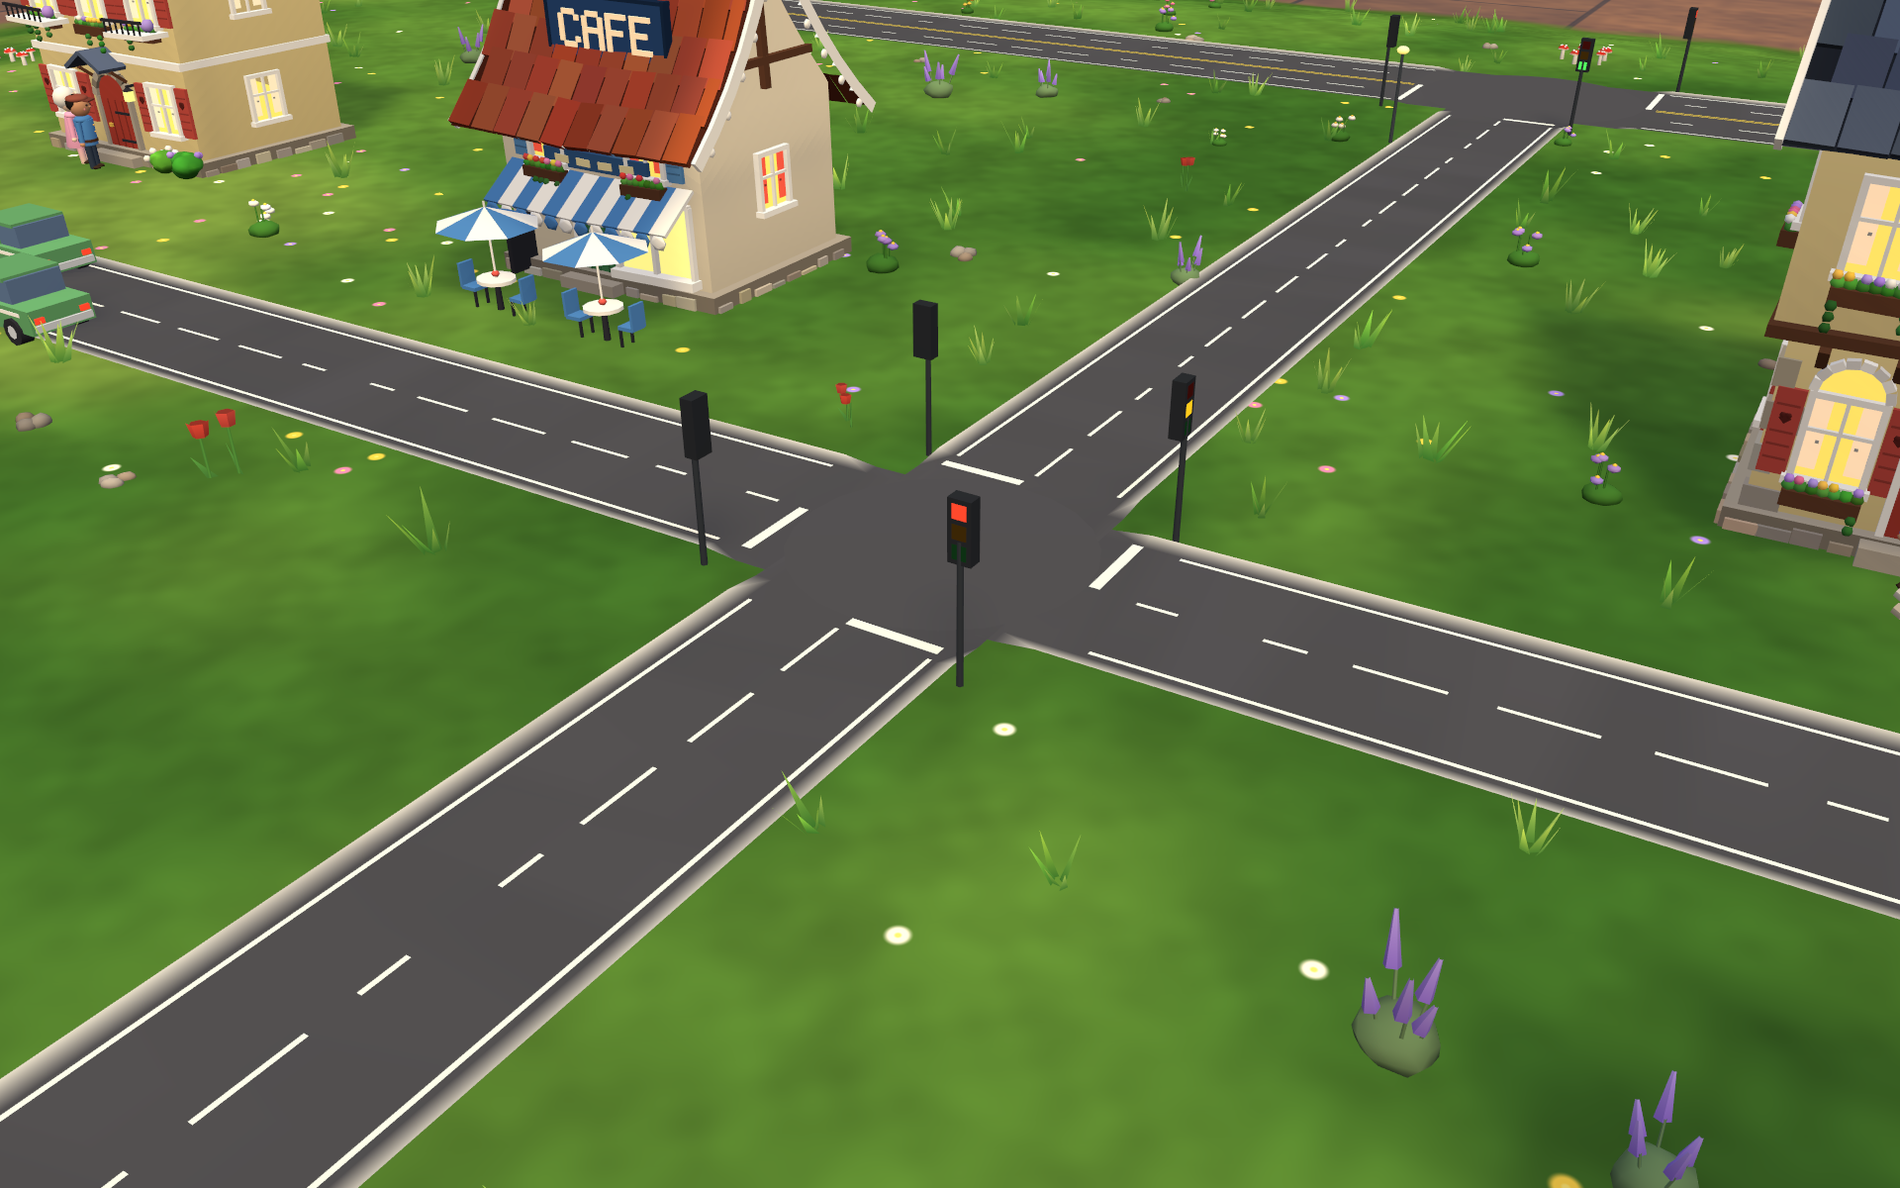
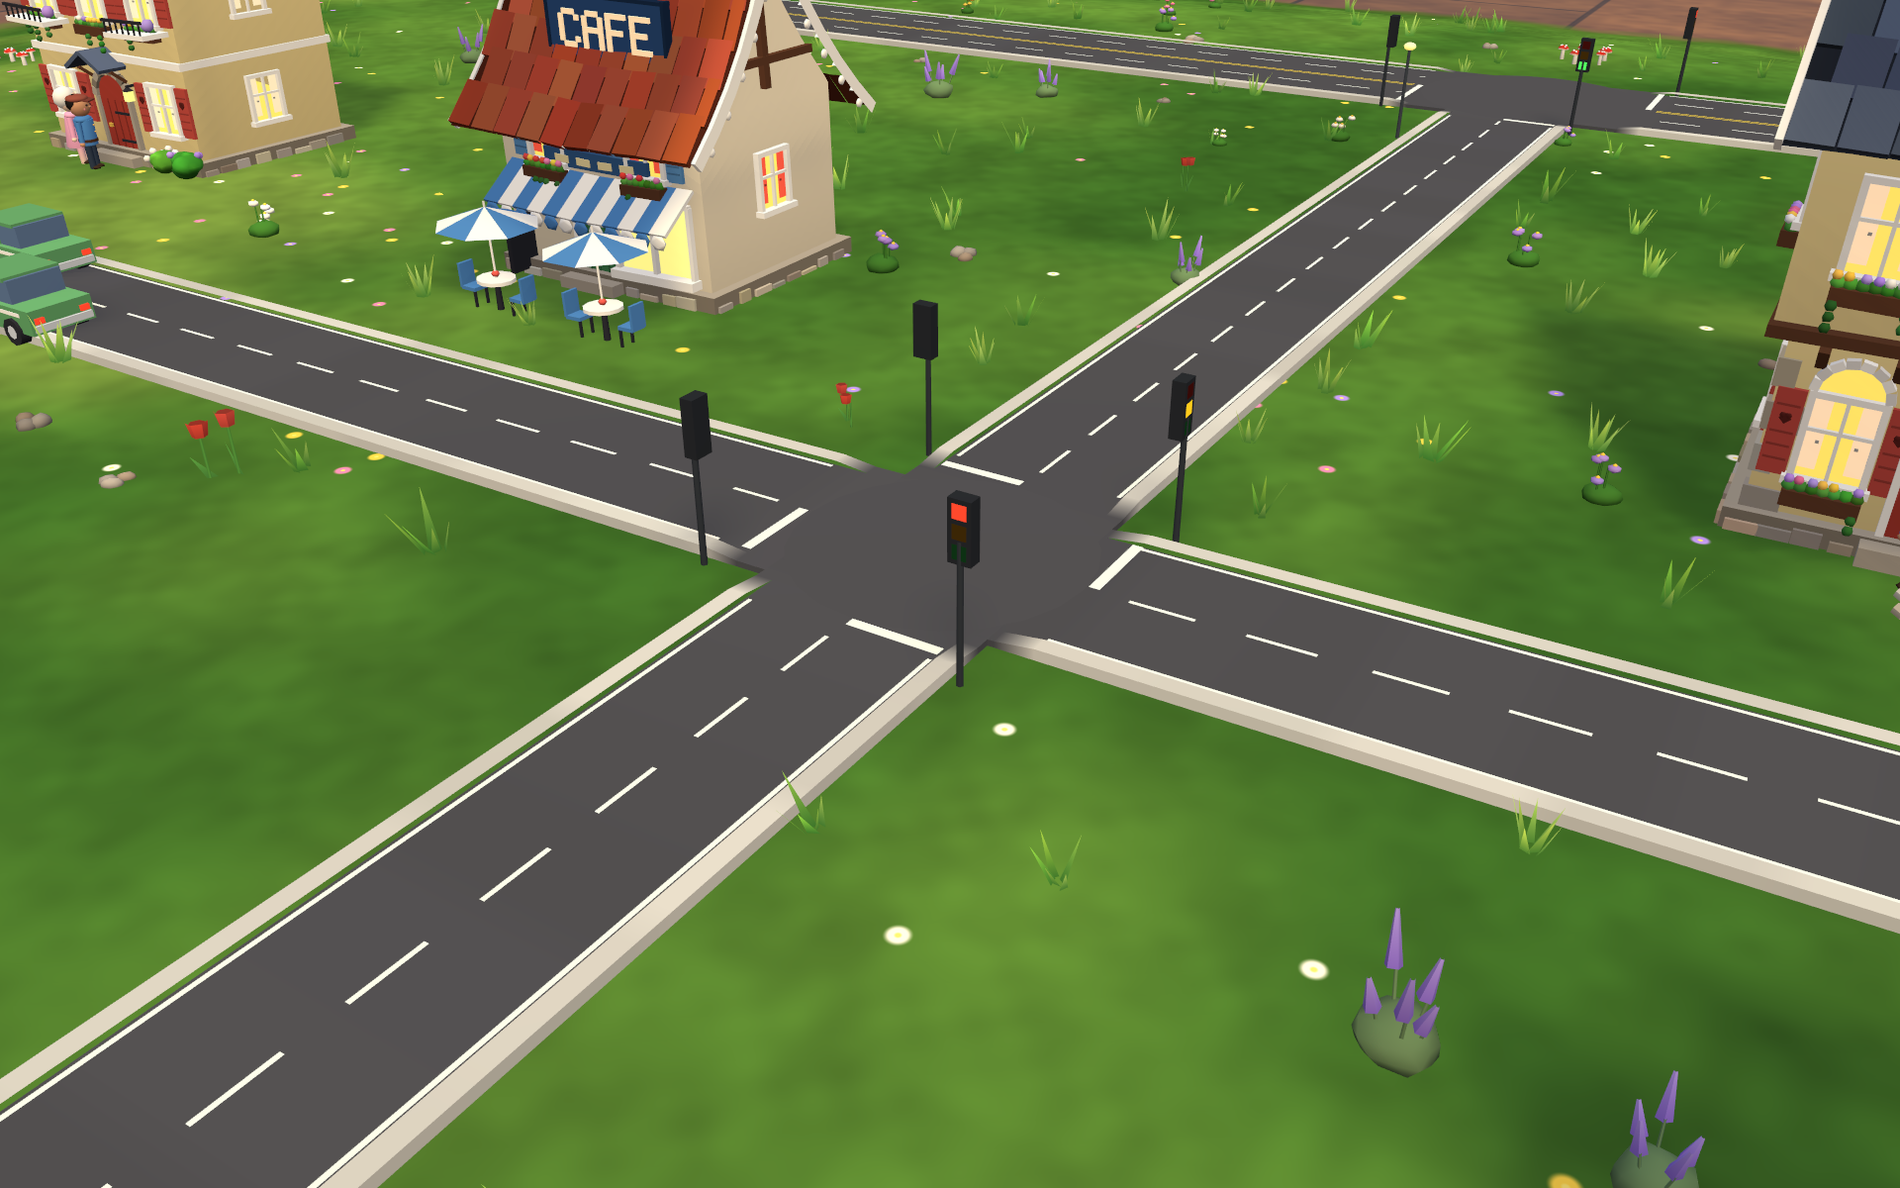
Roads look right: smooth bends, even markings, no ground showing through
- The road mesh follows a Catmull-Rom curve through the centre line (about 3 degrees a step on bends)
- Flat cross-sections at the highest ground across the road, kerbs with a skirt; the ground under a road is levelled
- Markings as continuous strips, dashes measured exactly along the road; junction patches flat on top
- editor-roads-bend.png

diff --git a/Assets/Wonderland/Scripts/World/PathSystem.Roads.cs b/Assets/Wonderland/Scripts/World/PathSystem.Roads.cs
@@ -272,70 +272,138 @@ namespace Wonderland
             return onDeck ? deck : terrain.SurfaceAt(q.x, q.y);
         }
 
-        /// <summary>A road's surface: asphalt between kerbs, edge lines and a centre line (left out inside junctions).</summary>
+        /// <summary>A point along a road for its mesh: where, which way, how high the (flat) road surface is there, how far along.</summary>
+        private struct RoadSample { public Vector2 P, T; public float Y, S; public bool Junction; }
+
+        private const float KerbHeight = 0.0012f, Skirt = 0.004f, RoadLift = 0.0016f;
+
+        /// <summary>
+        /// The road's centre line smoothed for drawing: between the 1 cm points, extra samples on a Catmull-Rom curve
+        /// wherever it bends (no more than ~3 degrees a step, so the kerbs of a tight corner are round, not faceted).
+        /// Each sample carries the height of a flat cross-section: the highest ground across the road, so no bump of
+        /// the land shows through it (on a bridge, the deck).
+        /// </summary>
+        private List<RoadSample> RoadSamples(PathLine l)
+        {
+            var pts = l.points;
+            int n = pts.Count;
+            var dense = new List<Vector2>(n * 2);
+            Vector2 P(int i) => l.closed ? pts[(i % n + n) % n] : pts[Mathf.Clamp(i, 0, n - 1)];
+            int segs = l.closed ? n : n - 1;
+            for (int i = 0; i < segs; i++)
+            {
+                Vector2 p0 = P(i - 1), p1 = P(i), p2 = P(i + 1), p3 = P(i + 2);
+                float bend = Vector2.Angle(p1 - p0, p2 - p1) + Vector2.Angle(p2 - p1, p3 - p2);
+                int sub = Mathf.Clamp(Mathf.CeilToInt(bend * 0.5f / 3f), 1, 8);
+                for (int k = 0; k < sub; k++)
+                {
+                    float t = k / (float)sub, t2 = t * t, t3 = t2 * t;
+                    dense.Add(0.5f * (2f * p1 + (-p0 + p2) * t + (2f * p0 - 5f * p1 + 4f * p2 - p3) * t2 + (-p0 + 3f * p1 - 3f * p2 + p3) * t3));
+                }
+            }
+            if (!l.closed) dense.Add(pts[n - 1]);
+            float hw = HalfWidth(l.kind);
+            var samples = new List<RoadSample>(dense.Count);
+            float s = 0f;
+            for (int i = 0; i < dense.Count; i++)
+            {
+                int m = dense.Count;
+                var t = (l.closed ? dense[(i + 1) % m] - dense[(i - 1 + m) % m] : dense[Mathf.Min(i + 1, m - 1)] - dense[Mathf.Max(i - 1, 0)]);
+                t = t.sqrMagnitude > 1e-12f ? t.normalized : Vector2.up;
+                var right = new Vector2(t.y, -t.x);
+                float y = float.MinValue;
+                for (int k = -2; k <= 2; k++) y = Mathf.Max(y, RoadHeight(dense[i] + right * (hw * 0.5f * k), out _));
+                if (i > 0) s += (dense[i] - dense[i - 1]).magnitude;
+                samples.Add(new RoadSample { P = dense[i], T = t, Y = y, S = s, Junction = InJunction(dense[i], 0.004f) });
+            }
+            // A gentle smoothing along the road, never lowering it (bumps in the ground stay underneath).
+            var ys = new float[samples.Count];
+            for (int i = 0; i < samples.Count; i++)
+            {
+                float best = samples[i].Y;
+                for (int k = -3; k <= 3; k++) { int j = l.closed ? (i + k + samples.Count) % samples.Count : Mathf.Clamp(i + k, 0, samples.Count - 1); best = Mathf.Max(best, samples[j].Y - Mathf.Abs(k) * 0.0006f); }
+                ys[i] = best;
+            }
+            for (int i = 0; i < samples.Count; i++) { var r = samples[i]; r.Y = ys[i]; samples[i] = r; }
+            return samples;
+        }
+
+        /// <summary>
+        /// A road's surface: flat asphalt between kerbs (with a skirt under each kerb so no gap shows on a slope), white
+        /// edge lines, and a dashed centre line (a highway: lane lines and a double yellow line). Markings and kerbs are
+        /// left out inside junctions.
+        /// </summary>
         private void RoadSurface(MeshBuilder b, MeshBuilder props, PathLine l)
         {
-            int n = l.points.Count;
-            if (n < 2) return;
+            if (l.points.Count < 2) return;
             float hw = HalfWidth(l.kind);
             bool highway = l.kind == (int)PathKind.Highway;
-            float lift = 0.0016f + (highway ? 0.0002f : 0f);
-            // The cross-section, from left kerb to right kerb: offsets and whether that strip is kerb (raised, pale).
-            float[] across = { -hw, -hw + KerbWidth, hw - KerbWidth, hw };
-            int start = b.VertexCount;
-            for (int i = 0; i < n; i++)
+            var samples = RoadSamples(l);
+            // Cross-section strips, left to right: skirt, kerb top, kerb face, asphalt, kerb face, kerb top, skirt.
+            // (offset, height above the road, and the next corner's) - kerbs drop to road level inside junctions.
+            (float x0, float h0, float x1, float h1, bool kerb)[] strips =
             {
-                var p = l.points[i];
-                var t = Tangent(l, i);
-                var right = new Vector2(t.y, -t.x);
-                bool junction = InJunction(p, 0.004f);
-                for (int k = 0; k < across.Length; k++)
+                (-hw, -Skirt, -hw, KerbHeight, true), (-hw, KerbHeight, -hw + KerbWidth, KerbHeight, true), (-hw + KerbWidth, KerbHeight, -hw + KerbWidth, 0f, true),
+                (-hw + KerbWidth, 0f, hw - KerbWidth, 0f, false),
+                (hw - KerbWidth, 0f, hw - KerbWidth, KerbHeight, true), (hw - KerbWidth, KerbHeight, hw, KerbHeight, true), (hw, KerbHeight, hw, -Skirt, true),
+            };
+            int count = samples.Count, last = l.closed ? count : count - 1;
+            foreach (var (x0, h0, x1, h1, kerb) in strips)
+            {
+                int start = b.VertexCount;
+                for (int i = 0; i < count; i++)
                 {
-                    var q = p + right * across[k];
-                    bool kerb = !junction && (k == 0 || k == 3);
-                    float y = RoadHeight(q, out _) + lift + (kerb ? 0.0012f : 0f);
-                    var colour = (k == 0 || k == 3) && !junction ? Pal.Shade(KerbStone, 0.95f + 0.1f * Noise.Hash(i / 3, k, 7)) : Pal.Shade(Asphalt, 0.96f + 0.06f * Noise.Hash(i / 2, k, 3));
-                    b.AddVertex(new Vector3(q.x, y, q.y), Vector3.up, colour);
+                    var sm = samples[i];
+                    var right = new Vector2(sm.T.y, -sm.T.x);
+                    bool flat = sm.Junction;   // inside a junction: all asphalt at road level
+                    float a = flat ? Mathf.Min(h0, 0f) : h0, c = flat ? Mathf.Min(h1, 0f) : h1;
+                    float y = sm.Y + RoadLift;
+                    var colour = kerb && !flat ? Pal.Shade(KerbStone, 0.95f + 0.1f * Noise.Hash(i / 4, (int)(x0 * 1000f), 7)) : Pal.Shade(Asphalt, 0.97f + 0.05f * Noise.Hash(i / 3, 1, 3));
+                    var q0 = sm.P + right * x0; var q1 = sm.P + right * x1;
+                    var p0 = new Vector3(q0.x, y + a, q0.y); var p1 = new Vector3(q1.x, y + c, q1.y);
+                    var along = new Vector3(sm.T.x, 0f, sm.T.y);
+                    var normal = Vector3.Cross(p1 - p0, along);
+                    if (normal.sqrMagnitude < 1e-14f) normal = Vector3.up; else normal.Normalize();
+                    if (Vector3.Dot(normal, Vector3.up) < -0.01f || (Mathf.Abs(normal.y) < 0.01f && Vector3.Dot(normal, new Vector3(right.x, 0f, right.y) * Mathf.Sign(x0 + x1 + 1e-6f)) < 0f)) normal = -normal;
+                    b.AddVertex(p0, normal, colour); b.AddVertex(p1, normal, colour);
                 }
-                if (i > 0)
-                    for (int k = 0; k < across.Length - 1; k++)
-                    {
-                        int a = start + (i - 1) * across.Length + k, c = start + i * across.Length + k;
-                        b.AddTriangle(a, c + 1, a + 1); b.AddTriangle(a, c, c + 1);
-                    }
+                for (int i = 0; i < last; i++)
+                {
+                    int i0 = start + i * 2, i1 = start + ((i + 1) % count) * 2;
+                    var v0 = b.Vertices[i0]; var v1 = b.Vertices[i0 + 1]; var v2 = b.Vertices[i1];
+                    // Wound so the face points along its normal.
+                    if (Vector3.Dot(Vector3.Cross(v1 - v0, v2 - v0), b.Normals[i0]) >= 0f) { b.AddTriangle(i0, i0 + 1, i1 + 1); b.AddTriangle(i0, i1 + 1, i1); }
+                    else { b.AddTriangle(i0, i1 + 1, i0 + 1); b.AddTriangle(i0, i1, i1 + 1); }
+                }
             }
-            if (l.closed)
-                for (int k = 0; k < across.Length - 1; k++)
-                {
-                    int a = start + (n - 1) * across.Length + k, c = start + k;
-                    b.AddTriangle(a, c + 1, a + 1); b.AddTriangle(a, c, c + 1);
-                }
-            b.RecalculateNormals(start);
-            // Markings: painted strips a hair above the asphalt.
-            float paintLift = lift + 0.0003f;
-            Strip(b, l, hw - KerbWidth - 0.0016f, 0.0011f, Paint, paintLift, 0f, 0f);    // edge lines
-            Strip(b, l, -(hw - KerbWidth - 0.0016f), 0.0011f, Paint, paintLift, 0f, 0f);
+            // Markings, painted a hair above the asphalt, measured exactly along the road.
+            float edge = hw - KerbWidth - 0.0016f;
+            PaintLine(b, samples, l.closed, edge, 0.0011f, Paint, 0f, 0f);
+            PaintLine(b, samples, l.closed, -edge, 0.0011f, Paint, 0f, 0f);
             if (highway)
             {
-                Strip(b, l, 0.0012f, 0.0009f, Yellow, paintLift, 0f, 0f);                    // the double yellow line
-                Strip(b, l, -0.0012f, 0.0009f, Yellow, paintLift, 0f, 0f);
-                Strip(b, l, 0.021f, 0.001f, Paint, paintLift, 0.018f, 0.014f);                // lane lines
-                Strip(b, l, -0.021f, 0.001f, Paint, paintLift, 0.018f, 0.014f);
+                PaintLine(b, samples, l.closed, 0.0012f, 0.0009f, Yellow, 0f, 0f);
+                PaintLine(b, samples, l.closed, -0.0012f, 0.0009f, Yellow, 0f, 0f);
+                PaintLine(b, samples, l.closed, 0.021f, 0.001f, Paint, 0.018f, 0.014f);
+                PaintLine(b, samples, l.closed, -0.021f, 0.001f, Paint, 0.018f, 0.014f);
             }
-            else Strip(b, l, 0f, 0.0011f, Paint, paintLift, 0.016f, 0.012f);                  // the dashed centre line
+            else PaintLine(b, samples, l.closed, 0f, 0.0011f, Paint, 0.016f, 0.012f);
             // Street lamps along a street now and then, on alternating sides.
             if (!highway)
-                for (int i = 40, side = 1; i < n - 10; i += 70, side = -side)
+            {
+                int side = 1;
+                for (float at = 0.4f; at < samples[^1].S - 0.1f; at += 0.7f, side = -side)
                 {
-                    var p = l.points[i];
-                    if (InJunction(p, 0.03f)) continue;
-                    var t = Tangent(l, i);
-                    var q = p + new Vector2(t.y, -t.x) * side * (hw + 0.004f);
+                    int i = samples.FindIndex(x => x.S >= at);
+                    if (i < 0 || samples[i].Junction || InJunction(samples[i].P, 0.03f)) continue;
+                    var sm = samples[i];
+                    var q = sm.P + new Vector2(sm.T.y, -sm.T.x) * side * (hw + 0.004f);
                     float y = RoadHeight(q, out bool deck);
                     if (deck) continue;
                     props.AddCylinder(new Vector3(q.x, y, q.y), 0.0009f, 0.0007f, 0.04f, 5, Pal.Hex("#3A3F46"), Pal.Hex("#3A3F46"), false);
                     props.AddBlob(new Vector3(q.x, y + 0.041f, q.y), new Vector3(0.0028f, 0.0018f, 0.0028f), 1, 0f, i, (_, __) => Pal.Glow(Pal.Hex("#FFE9B0")));
                 }
+            }
         }
 
         private static Vector2 Tangent(PathLine l, int i)
@@ -346,29 +414,48 @@ namespace Wonderland
         }
 
         /// <summary>
-        /// A painted line along a road at <paramref name="offset"/> from its middle: solid, or dashed (<paramref name="dash"/>
-        /// painted, <paramref name="gap"/> bare); left out inside junctions.
+        /// A painted line along the road at <paramref name="offset"/> from its middle, as one continuous strip: solid, or
+        /// dashed (<paramref name="dash"/> painted, <paramref name="gap"/> bare, measured exactly along the road, so every
+        /// dash is the same length on a straight or a bend). Left out inside junctions.
         /// </summary>
-        private void Strip(MeshBuilder b, PathLine l, float offset, float width, Color colour, float lift, float dash, float gap)
+        private static void PaintLine(MeshBuilder b, List<RoadSample> samples, bool closed, float offset, float width, Color colour, float dash, float gap)
         {
-            int n = l.points.Count;
-            float along = 0f;
-            int last = l.closed ? n : n - 1;
+            const float lift = RoadLift + 0.0003f;
+            int count = samples.Count, last = closed ? count : count - 1;
+            float period = dash + gap;
+            bool On(float s) => dash <= 0f || Mathf.Repeat(s, period) < dash;
+            Vector3 Edge(RoadSample sm, float side)
+            {
+                var right = new Vector2(sm.T.y, -sm.T.x);
+                var q = sm.P + right * (offset + side * width / 2);
+                return new Vector3(q.x, sm.Y + lift, q.y);
+            }
+            RoadSample Lerp(RoadSample a, RoadSample c, float t) => new()
+            {
+                P = Vector2.Lerp(a.P, c.P, t), T = Vector2.Lerp(a.T, c.T, t).normalized, Y = Mathf.Lerp(a.Y, c.Y, t), S = Mathf.Lerp(a.S, c.S, t),
+            };
+            void Quad(RoadSample a, RoadSample c)
+            {
+                var va = Edge(a, -1f); var vb = Edge(a, 1f); var vc = Edge(c, 1f); var vd = Edge(c, -1f);
+                if (Vector3.Cross(vb - va, vc - va).y >= 0f) b.AddQuad(va, vb, vc, vd, colour); else b.AddQuad(va, vd, vc, vb, colour);
+            }
             for (int i = 0; i < last; i++)
             {
-                var p0 = l.points[i]; var p1 = l.points[(i + 1) % n];
-                float seg = (p1 - p0).magnitude;
-                float mid = along + seg * 0.5f;
-                along += seg;
-                if (dash > 0f && (mid % (dash + gap)) > dash) continue;
-                if (InJunction(p0, 0.006f) || InJunction(p1, 0.006f)) continue;
-                var t0 = Tangent(l, i); var t1 = Tangent(l, (i + 1) % n);
-                var r0 = new Vector2(t0.y, -t0.x); var r1 = new Vector2(t1.y, -t1.x);
-                var a0 = p0 + r0 * (offset - width / 2); var b0 = p0 + r0 * (offset + width / 2);
-                var a1 = p1 + r1 * (offset - width / 2); var b1 = p1 + r1 * (offset + width / 2);
-                Vector3 V(Vector2 q) => new(q.x, RoadHeight(q, out _) + lift, q.y);
-                var va = V(a0); var vb = V(b0); var vc = V(b1); var vd = V(a1);
-                if (Vector3.Cross(vb - va, vc - va).y >= 0f) b.AddQuad(va, vb, vc, vd, colour); else b.AddQuad(va, vd, vc, vb, colour);
+                var a = samples[i]; var c = samples[(i + 1) % count];
+                if (a.Junction || c.Junction) continue;
+                float s0 = a.S, s1 = closed && i == count - 1 ? a.S + (c.P - a.P).magnitude : c.S;
+                if (s1 - s0 < 1e-6f) continue;
+                if (dash <= 0f) { Quad(a, c); continue; }
+                // Split this piece where dashes start and end.
+                // (in steps of at least 0.05 mm: a dash edge landing exactly on a sample never stalls the walk)
+                float from = s0;
+                for (int guard = 0; from < s1 - 1e-5f && guard < 64; guard++)
+                {
+                    float phase = Mathf.Repeat(from, period);
+                    float to = Mathf.Min(s1, from + Mathf.Max(0.00005f, phase < dash ? dash - phase : period - phase));
+                    if (On(from + 0.00002f)) Quad(Lerp(a, c, (from - s0) / (s1 - s0)), Lerp(a, c, (to - s0) / (s1 - s0)));
+                    from = to;
+                }
             }
         }
 
@@ -378,7 +465,10 @@ namespace Wonderland
             for (int ji = 0; ji < Junctions.Count; ji++)
             {
                 var j = Junctions[ji];
-                float y = RoadHeight(j.At, out _) + 0.0019f;
+                // One flat patch, at the highest ground under it (like the roads' flat cross-sections), just above them.
+                float y = RoadHeight(j.At, out _);
+                for (int k = 0; k < 12; k++) foreach (float f in new[] { 0.5f, 1f }) { float ang = k / 12f * Mathf.PI * 2f; y = Mathf.Max(y, RoadHeight(j.At + new Vector2(Mathf.Cos(ang), Mathf.Sin(ang)) * j.Radius * f, out _)); }
+                y += RoadLift + 0.0002f;
                 // A rounded patch big enough to cover the arms' full width where they enter.
                 const int seg = 24;
                 int centre = b.AddVertex(new Vector3(j.At.x, y, j.At.y), Vector3.up, Asphalt);
@@ -386,7 +476,7 @@ namespace Wonderland
                 {
                     float a = k / (float)seg * Mathf.PI * 2f;
                     var q = j.At + new Vector2(Mathf.Cos(a), Mathf.Sin(a)) * (j.Radius + 0.002f);
-                    b.AddVertex(new Vector3(q.x, RoadHeight(q, out _) + 0.0019f, q.y), Vector3.up, Asphalt);
+                    b.AddVertex(new Vector3(q.x, y, q.y), Vector3.up, Asphalt);
                     if (k > 0) b.AddTriangle(centre, centre + k + 1, centre + k);
                 }
                 for (int arm = 0; arm < j.Arms.Count; arm++)
@@ -398,7 +488,7 @@ namespace Wonderland
                     var line = j.At + d * (j.Radius + 0.004f);
                     var a0 = line + right * 0.0008f; var a1 = line + right * (hw - KerbWidth - 0.001f);
                     var w = d * 0.0014f;
-                    Vector3 V(Vector2 q) => new(q.x, RoadHeight(q, out _) + 0.0023f, q.y);
+                    Vector3 V(Vector2 q) => new(q.x, y + 0.0004f, q.y);
                     var va = V(a0 - w); var vb = V(a1 - w); var vc = V(a1 + w); var vd = V(a0 + w);
                     if (Vector3.Cross(vb - va, vc - va).y >= 0f) b.AddQuad(va, vb, vc, vd, Paint); else b.AddQuad(va, vd, vc, vb, Paint);
                     if (!j.Lights) continue;

diff --git a/Assets/Wonderland/Editor/WonderlandJourney.Roads.cs b/Assets/Wonderland/Editor/WonderlandJourney.Roads.cs
@@ -202,6 +202,8 @@ namespace Wonderland.Editor
             WonderlandRenders.Capture(cam, "editor-roads-crossroads.png", 1920, 1200);
             cam.transform.position = c + new Vector3(-0.2f, 0.14f, 0.3f); cam.transform.LookAt(c + new Vector3(0.05f, 0.01f, 0.56f)); cam.fieldOfView = 44f;
             WonderlandRenders.Capture(cam, "editor-roads-highway.png", 1920, 1200);
+            cam.transform.position = c + new Vector3(-0.3f, 0.16f, -0.52f); cam.transform.LookAt(c + new Vector3(-0.47f, 0.0f, -0.33f)); cam.fieldOfView = 40f;
+            WonderlandRenders.Capture(cam, "editor-roads-bend.png", 1920, 1200);
             Debug.Log($"Road renders: {w.Paths.Lines.Count} roads, {w.Paths.Junctions.Count} junctions, {w.Traffic.Vehicles.Count} vehicles, {w.Traffic.LightStops} stops at lights, {w.Traffic.RedRuns} red runs");
             Object.DestroyImmediate(w.gameObject);
             if (Application.isBatchMode) EditorApplication.Exit(0);

diff --git a/Assets/Wonderland/Scripts/World/PathSystem.cs b/Assets/Wonderland/Scripts/World/PathSystem.cs
@@ -296,8 +296,8 @@ namespace Wonderland
                 for (int i = 0; i < n; i += 2) { float d = (l.points[i] - c).sqrMagnitude; if (d < best) { best = d; bi = i; } }
                 float dist = Mathf.Sqrt(best);
                 if (dist > margin) continue;
-                float w = dist < hw ? 1f : Mathf.SmoothStep(1f, 0f, (dist - hw) / (margin - hw));
-                terrain.Height[g] = Mathf.Lerp(terrain.Height[g], terrain.HeightForSurface(g, smooth[bi]), w * 0.9f);
+                float w = dist < hw + 0.005f ? 1f : Mathf.SmoothStep(1f, 0f, (dist - hw - 0.005f) / (margin - hw - 0.005f));
+                terrain.Height[g] = Mathf.Lerp(terrain.Height[g], terrain.HeightForSurface(g, smooth[bi]), IsRoad(l.kind) ? w : w * 0.9f);   // (under a road: flat)
             }
             terrain.UpdateSurface(region);
             return region;
